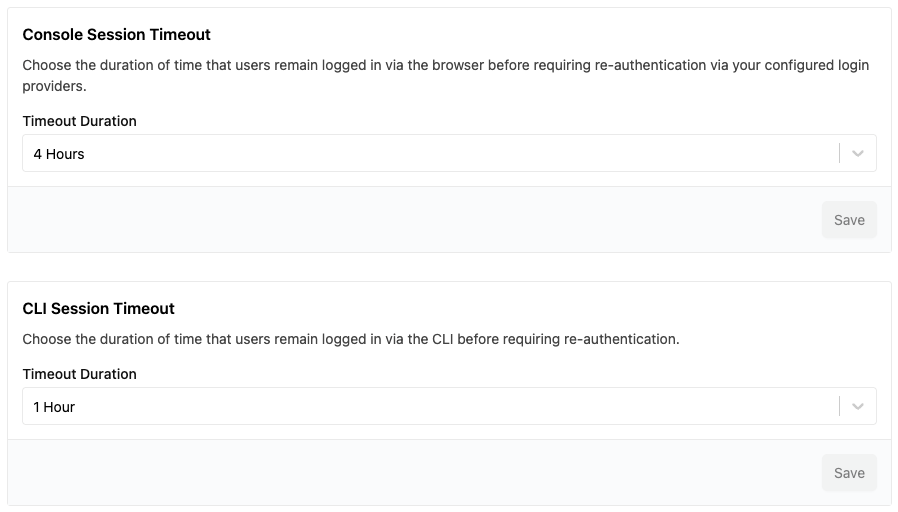
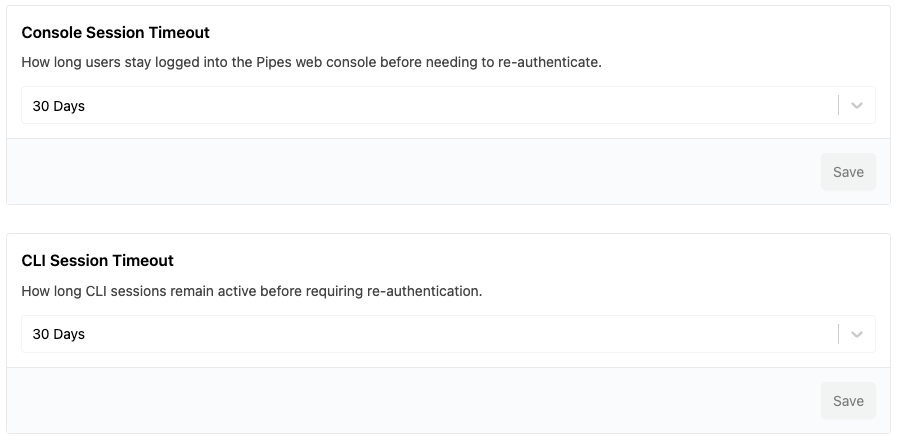
Updated docs for MaxTokenExpiration, session timeouts & user token creation (#45) Closes #44

diff --git a/docs/accounts/tenant/authentication.md b/docs/accounts/tenant/authentication.md
@@ -80,16 +80,30 @@ You can enable GitHub authentication by toggling the radio button.  When GitHub 
 ### Google
 You can enable Google authentication by toggling the radio button.  When Google authentication is enabled, any user who has been authenticated by Google whose email address is from a [trusted login domain](#trusted-login-domains) will be able to log in to your tenant - they do not need to be invited.  A user will be created the first time they log in to Pipes, and they will be assigned the [Member role](/pipes/docs/accounts/tenant/people#tenant-roles) in the tenant. 
 
+## Maximum Token Expiration
+
+You can configure the maximum duration of tokens issued to users in your tenant. This setting applies to both temporary tokens issued via the console (browser) or CLI and user access tokens managed via their profile settings.
+
+The default value is `Never`. This allows tokens to be issued without expiration.
+
+<img src="/images/docs/pipes/cloud-tenant-max-token-expiration.png" width="400pt"/>
+<br />
+
+
+> [!NOTE]
+> You cannot set this value to be less than the [session timeout](#session-timeout) values. Changing this setting will not affect existing tokens which are valid until they expire or [authentication is reset](#reset-authentication).
+
 ## Session Timeout
 
 You can configure the maximum duration of Console (browser) and CLI sessions in your tenant, after which the user will be required to log in again. 
 
-To set the session timeout, select the desired duration or select custom (hours) for the **Console Session Timeout** or **CLI Session Timeout** and click **Save**. The default value is `30 Days`.
+To set the session timeout, select the desired duration or select custom to provide your own for the **Console Session Timeout** or **CLI Session Timeout** and click **Save**. The default value is `30 Days`.
 
 <img src="/images/docs/pipes/cloud-tenant-session-timeout.png" width="400pt"/>
 <br />
 
-> Note: This setting will only apply to new user sessions. Existing user sessions will not be affected until they expire, the user logs out or [authentication is reset](#reset-authentication).
+> [!NOTE]
+> This setting will only apply to new user sessions. Existing user sessions will not be affected until they expire, the user logs out or [authentication is reset](#reset-authentication).
 
 ## Reset Authentication
 

diff --git a/docs/accounts/developer/advanced.md b/docs/accounts/developer/advanced.md
@@ -57,14 +57,19 @@ You can manage your API tokens, rotate your database password, and reset authent
 
 ### Tokens
 
-You can create non-expiring API tokens for your user account.  You can use these tokens to access the
+You can create API tokens for your user account. You can use these tokens to access the
 [Turbot Pipes API](/pipes/docs/develop/query-api), or to connect to Turbot Pipes
-workspaces from the Steampipe CLI. You can have up to 2 tokens at a time.
+workspaces from the Steampipe CLI. You can have up to 5 tokens at a time.
 
-Click **New Token** to create a new API token. The token will be masked, but you
-can reveal it by clicking the eye icon or hovering over it and clicking the clipboard
-icon to copy it. Make a secure note of the token, as you will not be able to
-retrieve it again.
+Click **New Token** to create a new API token. You will be prompted to enter an optional `Title` and select an `Expiration` date for the token. The expiration can be set to a specific duration or to `Never`, which means the token will not expire.
+
+<img src="/images/docs/pipes/cloud-user-create-token.png" width="200pt"/>
+<br />
+
+> [!NOTE]
+> If you're on an [Enterprise Plan](/pipes/docs/accounts/tenant#enterprise-plan) with a custom [Tenant](/pipes/docs/accounts/tenant), the [Maximum Token Expiration](/pipes/docs/accounts/tenant/authentication#maximum-token-expiration) setting will apply to the token expiration.
+ 
+The token will be masked, but you can reveal it by clicking the eye icon or hovering over it and clicking the clipboard icon to copy it. Make a secure note of the token, as you will not be able to retrieve it again.
 
 You can deactivate or delete a token from the list by clicking the options menu
 button ('three dots' button) and selecting **Deactivate** or **Delete** from the menu.
